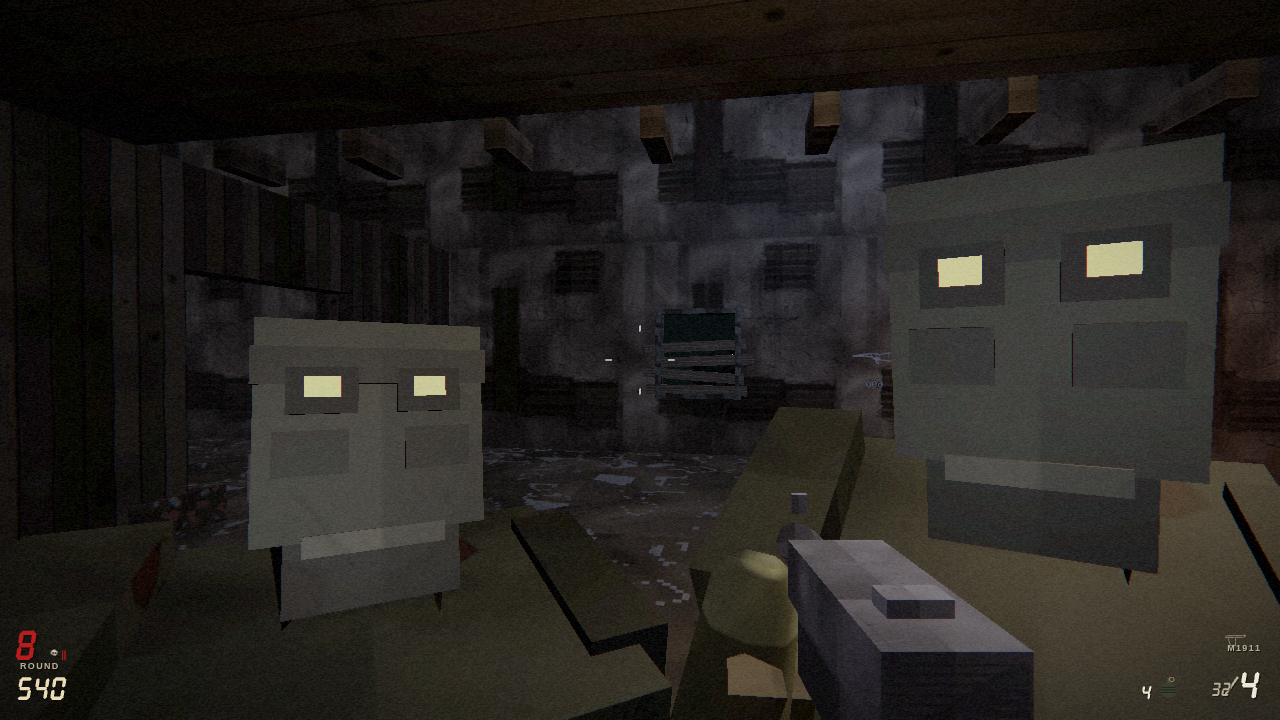
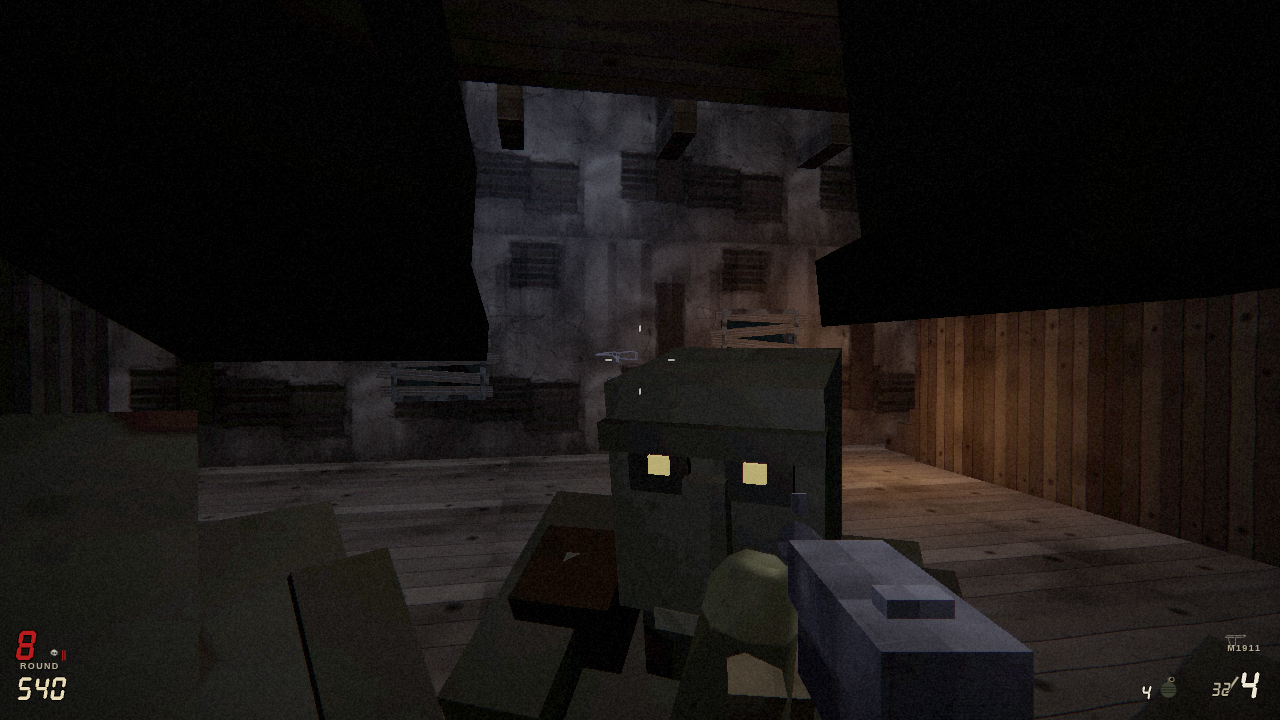
fix: the zombie had two failure modes instead of one
Round four's visual critic: the head was fixed at the 2.2 m distance the
round-three complaint was shot from, and broken either side of it — a
solid black paper-doll at 4 m, and a bleached pale block with two lit
windows for eyes in the brighter rooms. Correct on both.

The cause of the range problem was the camera fill light. Attenuation is
att^2/(1 + d^2*0.1), which over a short radius is brutally steep: at
radius 5.4 that light was 23x brighter at 1 m than at 4 m, so a zombie on
the lens blew out while one at mid-fight range got nothing. Widening the
radius to 14 and dropping the intensity flattens it to about 4x across the
same span — dimmer up close, readable further out.

The lit-windows read was the eyes. The emissive add is vCol * strength,
and at strength 1.8 with an amber vCol that is 1.8x full scale in red, so
they saturated to cream rectangles rather than points burning in a socket.
Halved, and the glow boxes shrunk.

The face itself was still flat because the brow and cheeks sat at the same
depth as the skull's front face — differently-tinted rectangles painted on
a plane, which no light direction can separate. The brow now genuinely
protrudes and there is a nose ridge. I overshot this once at 0.026 proud,
which turned the head into a peaked lid with the eyes as slits under it;
it is 0.012 now.

ev-10 also framed the nearest zombie, which is almost always inside melee
reach, so the frame the critics were judging was a head filling a quarter
[…]

diff --git a/nacht_der_untoten.html b/nacht_der_untoten.html
@@ -10225,7 +10225,7 @@ Z.assert = function (cond, msg) {
 }());
 
 
-/* ============================ 13_models.js (1488 lines) ============================ */
+/* ============================ 13_models.js (1497 lines) ============================ */
 // ---------------------------------------------------------------------------
 // 13_models.js — Z.Models: every piece of geometry in the game that is not a
 // level brush. Zombies (skinned + variants), procedural animation, first
@@ -10615,22 +10615,31 @@ Z.assert = function (cond, msg) {
       box(b, hx - 0.062 * rk, hy - 0.075, hz - 0.086 * rk, hx + 0.062 * rk, hy - 0.005, hz + 0.028 * rk, COL.skinDark);
       // exposed teeth strip where the jaw hangs open
       box(b, hx - 0.05 * rk, hy - 0.028, hz - 0.09 * rk, hx + 0.05 * rk, hy - 0.010, hz - 0.06 * rk, COL.teeth, { shade: false });
-      // Brow ridge: a dark band straight across, so the whole upper face is
-      // in shadow and the head stops reading as one flat lit card.
-      box(b, hx - 0.084 * rk, hy + 0.118, hz - 0.094 * rk, hx + 0.084 * rk, hy + 0.150, hz - 0.062 * rk,
-        COL.skinDark, { shade: false });
+      // Brow ridge. It has to genuinely protrude, not sit flush — at the same
+      // depth as the skull face it was a differently-tinted rectangle painted
+      // on a flat plane, which is what made the head read as a card. But only
+      // just proud: at 0.026 it became a shelf that turned the head into a
+      // peaked lid with the eyes as slits underneath it.
+      box(b, hx - 0.084 * rk, hy + 0.124, hz - 0.100 * rk, hx + 0.084 * rk, hy + 0.146, hz - 0.076 * rk,
+        COL.skinDark);
+      // Nose ridge — the other shape that makes a box read as a face at range.
+      box(b, hx - 0.016 * rk, hy + 0.040, hz - 0.104 * rk, hx + 0.016 * rk, hy + 0.108, hz - 0.084 * rk,
+        COL.skin);
       // sunken eye sockets — dark recess, then a smaller glowing pupil set
       // just proud of it so the amber reads as coming from inside the skull.
       box(b, hx - 0.062 * rk, hy + 0.092, hz - 0.095 * rk, hx - 0.014 * rk, hy + 0.132, hz - 0.066 * rk, COL.eye, { shade: false });
       box(b, hx + 0.014 * rk, hy + 0.092, hz - 0.095 * rk, hx + 0.062 * rk, hy + 0.132, hz - 0.066 * rk, COL.eye, { shade: false });
       // cheekbone shadow under each socket — the hollow-cheeked corpse read
-      box(b, hx - 0.070 * rk, hy + 0.040, hz - 0.092 * rk, hx - 0.020 * rk, hy + 0.078, hz - 0.070 * rk,
+      box(b, hx - 0.074 * rk, hy + 0.036, hz - 0.086 * rk, hx - 0.022 * rk, hy + 0.082, hz - 0.052 * rk,
         COL.skinDark, { shade: false });
-      box(b, hx + 0.020 * rk, hy + 0.040, hz - 0.092 * rk, hx + 0.070 * rk, hy + 0.078, hz - 0.070 * rk,
+      box(b, hx + 0.022 * rk, hy + 0.036, hz - 0.086 * rk, hx + 0.074 * rk, hy + 0.082, hz - 0.052 * rk,
         COL.skinDark, { shade: false });
-      b.setEmissive(1);
-      box(b, hx - 0.050 * rk, hy + 0.106, hz - 0.098 * rk, hx - 0.026 * rk, hy + 0.124, hz - 0.086 * rk, COL.eyeGlow, { shade: false });
-      box(b, hx + 0.026 * rk, hy + 0.106, hz - 0.098 * rk, hx + 0.050 * rk, hy + 0.124, hz - 0.086 * rk, COL.eyeGlow, { shade: false });
+      // Small and not blinding. These are meant to read as two points burning
+      // in a socket; at the previous size and strength they blew out into
+      // cream rectangles that turned the head into a lit window.
+      b.setEmissive(0.55);
+      box(b, hx - 0.044 * rk, hy + 0.108, hz - 0.099 * rk, hx - 0.028 * rk, hy + 0.122, hz - 0.088 * rk, COL.eyeGlow, { shade: false });
+      box(b, hx + 0.028 * rk, hy + 0.108, hz - 0.099 * rk, hx + 0.044 * rk, hy + 0.122, hz - 0.088 * rk, COL.eyeGlow, { shade: false });
       b.setEmissive(0);
       // torn cheek patch
       box(b, hx + 0.055 * rk, hy + 0.02, hz - 0.05 * rk, hx + 0.086 * rk, hy + 0.06, hz + 0.01 * rk, COL.fleshDark, { shade: false });
@@ -17566,7 +17575,7 @@ Z.assert = function (cond, msg) {
 }());
 
 
-/* ============================ 22_game.js (709 lines) ============================ */
+/* ============================ 22_game.js (714 lines) ============================ */
 // ---------------------------------------------------------------------------
 // 22_game.js — state machine, fixed-timestep loop, render order, HUD feed.
 // ---------------------------------------------------------------------------
@@ -18075,8 +18084,13 @@ Z.assert = function (cond, msg) {
     // every world bulb and renders as an unlit black slab. Short radius and
     // low intensity so it reads as eye adaptation, not a flashlight.
     const vcam = Z.Render.camera;
+    // Wide radius, low intensity. The attenuation curve is att^2/(1+d^2*0.1),
+    // which over a short radius is brutally steep: at r=5.4 this light was 23x
+    // brighter at 1 m than at 4 m, so a zombie on the lens blew out to a pale
+    // block while one at mid-fight range got nothing and fell to a silhouette.
+    // Stretching the radius flattens that to about 4x across the same span.
     Z.Render.addLight([vcam.pos[0], vcam.pos[1] - 0.10, vcam.pos[2]],
-      [0.62, 0.58, 0.52], 5.4, 0.62, 'camfill');
+      [0.62, 0.58, 0.52], 14.0, 0.30, 'camfill');
 
     Z.Render.beginScene();
     Z.Render.drawWorld();

diff --git a/src/game/13_models.js b/src/game/13_models.js
@@ -387,22 +387,31 @@
       box(b, hx - 0.062 * rk, hy - 0.075, hz - 0.086 * rk, hx + 0.062 * rk, hy - 0.005, hz + 0.028 * rk, COL.skinDark);
       // exposed teeth strip where the jaw hangs open
       box(b, hx - 0.05 * rk, hy - 0.028, hz - 0.09 * rk, hx + 0.05 * rk, hy - 0.010, hz - 0.06 * rk, COL.teeth, { shade: false });
-      // Brow ridge: a dark band straight across, so the whole upper face is
-      // in shadow and the head stops reading as one flat lit card.
-      box(b, hx - 0.084 * rk, hy + 0.118, hz - 0.094 * rk, hx + 0.084 * rk, hy + 0.150, hz - 0.062 * rk,
-        COL.skinDark, { shade: false });
+      // Brow ridge. It has to genuinely protrude, not sit flush — at the same
+      // depth as the skull face it was a differently-tinted rectangle painted
+      // on a flat plane, which is what made the head read as a card. But only
+      // just proud: at 0.026 it became a shelf that turned the head into a
+      // peaked lid with the eyes as slits underneath it.
+      box(b, hx - 0.084 * rk, hy + 0.124, hz - 0.100 * rk, hx + 0.084 * rk, hy + 0.146, hz - 0.076 * rk,
+        COL.skinDark);
+      // Nose ridge — the other shape that makes a box read as a face at range.
+      box(b, hx - 0.016 * rk, hy + 0.040, hz - 0.104 * rk, hx + 0.016 * rk, hy + 0.108, hz - 0.084 * rk,
+        COL.skin);
       // sunken eye sockets — dark recess, then a smaller glowing pupil set
       // just proud of it so the amber reads as coming from inside the skull.
       box(b, hx - 0.062 * rk, hy + 0.092, hz - 0.095 * rk, hx - 0.014 * rk, hy + 0.132, hz - 0.066 * rk, COL.eye, { shade: false });
       box(b, hx + 0.014 * rk, hy + 0.092, hz - 0.095 * rk, hx + 0.062 * rk, hy + 0.132, hz - 0.066 * rk, COL.eye, { shade: false });
       // cheekbone shadow under each socket — the hollow-cheeked corpse read
-      box(b, hx - 0.070 * rk, hy + 0.040, hz - 0.092 * rk, hx - 0.020 * rk, hy + 0.078, hz - 0.070 * rk,
+      box(b, hx - 0.074 * rk, hy + 0.036, hz - 0.086 * rk, hx - 0.022 * rk, hy + 0.082, hz - 0.052 * rk,
         COL.skinDark, { shade: false });
-      box(b, hx + 0.020 * rk, hy + 0.040, hz - 0.092 * rk, hx + 0.070 * rk, hy + 0.078, hz - 0.070 * rk,
+      box(b, hx + 0.022 * rk, hy + 0.036, hz - 0.086 * rk, hx + 0.074 * rk, hy + 0.082, hz - 0.052 * rk,
         COL.skinDark, { shade: false });
-      b.setEmissive(1);
-      box(b, hx - 0.050 * rk, hy + 0.106, hz - 0.098 * rk, hx - 0.026 * rk, hy + 0.124, hz - 0.086 * rk, COL.eyeGlow, { shade: false });
-      box(b, hx + 0.026 * rk, hy + 0.106, hz - 0.098 * rk, hx + 0.050 * rk, hy + 0.124, hz - 0.086 * rk, COL.eyeGlow, { shade: false });
+      // Small and not blinding. These are meant to read as two points burning
+      // in a socket; at the previous size and strength they blew out into
+      // cream rectangles that turned the head into a lit window.
+      b.setEmissive(0.55);
+      box(b, hx - 0.044 * rk, hy + 0.108, hz - 0.099 * rk, hx - 0.028 * rk, hy + 0.122, hz - 0.088 * rk, COL.eyeGlow, { shade: false });
+      box(b, hx + 0.028 * rk, hy + 0.108, hz - 0.099 * rk, hx + 0.044 * rk, hy + 0.122, hz - 0.088 * rk, COL.eyeGlow, { shade: false });
       b.setEmissive(0);
       // torn cheek patch
       box(b, hx + 0.055 * rk, hy + 0.02, hz - 0.05 * rk, hx + 0.086 * rk, hy + 0.06, hz + 0.01 * rk, COL.fleshDark, { shade: false });

diff --git a/src/game/22_game.js b/src/game/22_game.js
@@ -506,8 +506,13 @@
     // every world bulb and renders as an unlit black slab. Short radius and
     // low intensity so it reads as eye adaptation, not a flashlight.
     const vcam = Z.Render.camera;
+    // Wide radius, low intensity. The attenuation curve is att^2/(1+d^2*0.1),
+    // which over a short radius is brutally steep: at r=5.4 this light was 23x
+    // brighter at 1 m than at 4 m, so a zombie on the lens blew out to a pale
+    // block while one at mid-fight range got nothing and fell to a silhouette.
+    // Stretching the radius flattens that to about 4x across the same span.
     Z.Render.addLight([vcam.pos[0], vcam.pos[1] - 0.10, vcam.pos[2]],
-      [0.62, 0.58, 0.52], 5.4, 0.62, 'camfill');
+      [0.62, 0.58, 0.52], 14.0, 0.30, 'camfill');
 
     Z.Render.beginScene();
     Z.Render.drawWorld();
